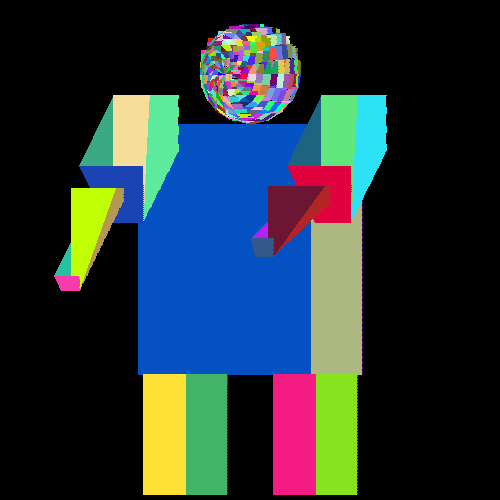
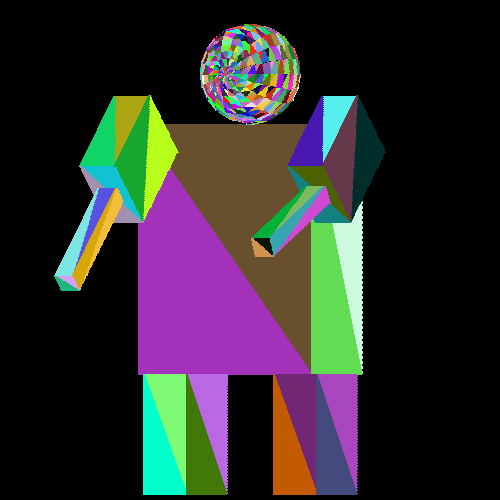
finished scanline function

diff --git a/draw.py b/draw.py
@@ -68,7 +68,7 @@ def scanline_convert(polygons, i, screen, zbuffer ):
     color = [random.randint(0, 256), random.randint(0, 256), random.randint(0, 256)]
     while y <= yt:
         #swap dx1 if needed
-        if y >= ym:
+        if int(y) == int(ym):
             dx1 = dx1_1
             dz1 = dz1_1
             x1 = xm
